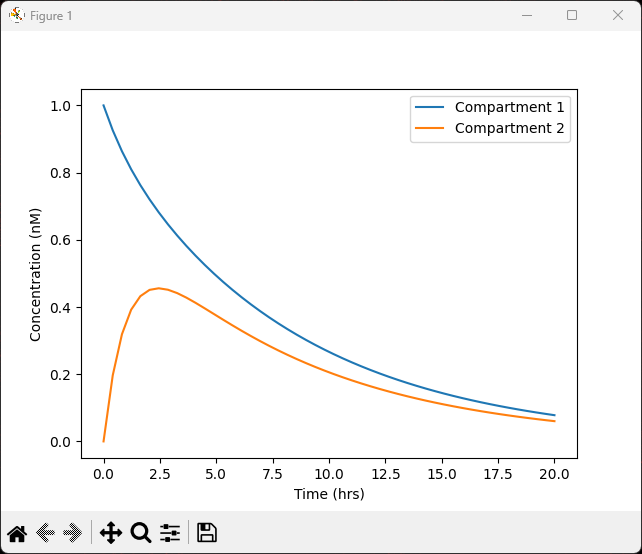
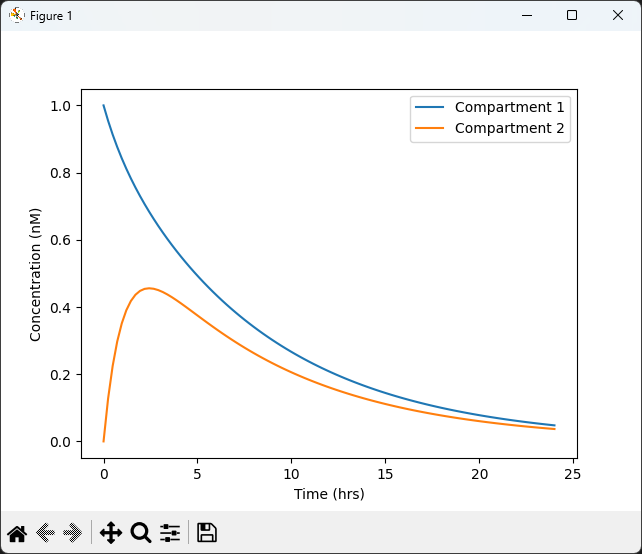
v1.2.0 Update

diff --git a/CompartmentPk.py b/CompartmentPk.py
@@ -1,9 +1,11 @@
 import numpy as np
 from scipy.integrate import odeint
+import sympy as sym
 import matplotlib.pyplot as plt
 import tkinter as tk
 from tkinter import ttk, messagebox
 
+# Compile macOS: pyinstaller --collect-all matplotlib --onefile --windowed CompartmentPk.py
 
 def is_square(mat):
     return mat.shape[0] == mat.shape[1]
@@ -22,7 +24,79 @@ def get_user_input():
     return m, y0
 
 
+def find_eigenvalues_and_eigenvectors(matrix):
+    eigenvalues, eigenvectors = np.linalg.eig(matrix)
+    return eigenvalues, eigenvectors
+
+
+def find_coeff(eigenvectors, initial_values):
+    if len(initial_values) == 2:
+        # Equations below are determined by the compartment placement
+        a1, a2 = sym.symbols("a1, a2")
+        eq1 = sym.Eq(
+            (a1 * eigenvectors[0][1] + a2 * eigenvectors[0][0]), initial_values[0])
+        eq2 = sym.Eq(
+            (a1 * eigenvectors[1][1] + a2 * eigenvectors[1][0]), initial_values[1])
+        result = sym.solve([eq1, eq2], (a1, a2))
+        result = [result[a1], result[a2]]
+    elif len(initial_values) == 3:
+        # Equations below are determined by the compartment placement
+        a1, a2, a3 = sym.symbols("a1, a2, a3")
+        eq1 = sym.Eq((a1 * eigenvectors[0][2] + a2 * eigenvectors[0]
+                     [1] + a3 * eigenvectors[0][0]), initial_values[0])
+        eq2 = sym.Eq((a1 * eigenvectors[1][2] + a2 * eigenvectors[1]
+                     [1] + a3 * eigenvectors[1][0]), initial_values[1])
+        eq3 = sym.Eq((a1 * eigenvectors[2][2] + a2 * eigenvectors[2]
+                     [1] + a3 * eigenvectors[2][0]), initial_values[2])
+        result = sym.solve([eq1, eq2, eq3], (a1, a2, a3))
+        result = [result[a1], result[a2], result[a3]]
+    elif len(initial_values) == 4:
+        # Equations below are determined by the compartment placement
+        a1, a2, a3, a4 = sym.symbols("a1, a2, a3, a4")
+        eq1 = sym.Eq((a1 * eigenvectors[0][3] + a2 * eigenvectors[0][2] + a3 *
+                     eigenvectors[0][1] + a4 * eigenvectors[0][0]), initial_values[0])
+        eq2 = sym.Eq((a1 * eigenvectors[1][3] + a2 * eigenvectors[1][2] + a3 *
+                     eigenvectors[1][1] + a4 * eigenvectors[1][0]), initial_values[1])
+        eq3 = sym.Eq((a1 * eigenvectors[2][3] + a2 * eigenvectors[2][2] + a3 *
+                     eigenvectors[2][1] + a4 * eigenvectors[2][0]), initial_values[2])
+        eq4 = sym.Eq((a1 * eigenvectors[3][3] + a2 * eigenvectors[3][2] + a3 *
+                     eigenvectors[3][1] + a4 * eigenvectors[3][0]), initial_values[3])
+        result = sym.solve([eq1, eq2, eq3, eq4], (a1, a2, a3, a4))
+        result = [result[a1], result[a2], result[a3], result[a4]]
+    return result
+
+
+def const_eigen_window():
+    m, y0 = get_user_input()
+    eigvalues, eigvectors = find_eigenvalues_and_eigenvectors(m)
+    a_coeff = find_coeff(eigvectors, y0)
+    prefix = "a{}: "
+
+    window2 = tk.Toplevel()
+    window2.title('Extra Data')
+    window2.geometry('+700+75')
+    
+
+    # Creating a frame for each label
+    evecf = ttk.LabelFrame(window2, padding="10", text="Eigenvector")
+    evalf = ttk.LabelFrame(window2, padding="10", text="Eigenvalue")
+    cvalf = ttk.LabelFrame(window2, padding="10", text="a Coefficents")
+
+    # Gridding the frames
+    evecf.grid(row=0, column=0, padx=5, pady=5)
+    evalf.grid(row=1, column=0, padx=5, pady=5)
+    cvalf.grid(row=2, column=0, padx=5, pady=5)
+
+    # Packing the labels within each frame
+    ttk.Label(evecf, text=eigvectors).pack(padx=5, pady=5)
+    ttk.Label(evalf, text=eigvalues).pack(padx=5, pady=5)
+    for i, coeff in enumerate(a_coeff, start=1):
+        ttk.Label(cvalf, text=prefix.format(
+            i) + str(coeff)).pack(padx=5, pady=5)
+
+
 def run_simulation():
+    const_eigen_window()
     try:
         m, y0 = get_user_input()
         if is_square(m) and is_square(m.T):
@@ -33,34 +107,59 @@ def run_simulation():
             return
 
         def model(y, t):
-            dydt = -np.dot(m, y)  # ODE
+            dydt = -np.dot(m, y)          # ODE
             return dydt
 
-        t = np.linspace(0, 20)
-        y = odeint(model, y0, t)
+        def model_cont(y, t):
+            dydt = -np.dot(m, y) + y0     # ODE
+            return dydt
 
-        for i in range(len(m)):
-            plt.plot(t, y[:, i], label="Compartment " + str(i + 1))
-        print(type(y))
+        t = np.linspace(float(time_0.get()), float(time_f.get()), 100)
+        if cont_value.get() == 0:
+            y = odeint(model, y0, t)
+        else:
+            # for continuous injection
+            yin = np.zeros(len(y0))
+            y = odeint(model_cont, yin, t)
+
+        if time_skip.get() == '':
+            for i in range(len(m)):
+                plt.plot(t, y[:, i], label="Compartment " + str(i + 1))
+        else:
+            y_new = y.copy()
+            tskip = float(time_skip.get())
+            time_index = int(np.where(t >= tskip)[0][0])
+            idx = time_index
+            # for repeated injection
+            while idx < len(t):
+                ypad = np.pad(y, ((int(idx), 0), (0, 0)),
+                              mode='constant', constant_values=0)
+                ypad = ypad[0:len(y), :]
+                y_new = y_new + ypad
+                idx = idx + time_index
+            for i in range(len(m)):
+                plt.plot(t, y_new[:, i], label="Compartment " + str(i + 1))
 
         plt.xlabel("Time (hrs)")
         plt.ylabel("Concentration (nM)")
         plt.legend()
         plt.show()
 
+
     except Exception as e:
         messagebox.showerror("Error", str(e))
 
 
 root = tk.Tk()
-root.title("ODE Solver")
+root.title("Compartment Pk Solver")
 
 frame_main = ttk.Frame(root, padding="10")
 frame_main.grid(row=0, column=0, sticky=(tk.W, tk.E, tk.N, tk.S))
 
 frame_compartments = ttk.LabelFrame(
     frame_main, padding="10", text="Compartments")
-frame_compartments.grid(row=0, column=0, sticky=(tk.W, tk.E, tk.N, tk.S))
+frame_compartments.grid(row=0, column=0, columnspan=2,
+                        sticky=(tk.W, tk.E, tk.N, tk.S))
 
 input_compartments = ttk.Entry(frame_compartments, width=10)
 input_compartments.grid(row=0, column=0, padx=5, pady=5, sticky=tk.W)
@@ -69,7 +168,8 @@ ttk.Label(frame_compartments, text="Enter the number of compartments: ").grid(
 )
 
 frame_m_matrix = ttk.LabelFrame(frame_main, padding="10", text="m Matrix")
-frame_m_matrix.grid(row=1, column=0, sticky=(tk.W, tk.E, tk.N, tk.S))
+frame_m_matrix.grid(row=1, column=0, columnspan=2,
+                    sticky=(tk.W, tk.E, tk.N, tk.S))
 
 input_m_matrix = []
 for i in range(4):
@@ -90,8 +190,29 @@ for i in range(4):
     entry.grid(row=i, column=0, padx=5, pady=5, sticky=tk.W)
     input_y0_vector.append(entry)
 
+frame_t_values = ttk.LabelFrame(frame_main, padding="10", text="Time Values")
+frame_t_values.grid(row=2, column=1, sticky=(tk.W, tk.E, tk.N, tk.S))
+
+ttk.Label(frame_t_values, text='Initial: ').grid(
+    row=0, column=0, padx=5, pady=5)
+ttk.Label(frame_t_values, text='Final: ').grid(row=1, column=0, padx=5, pady=5)
+ttk.Label(frame_t_values, text='Skip: ').grid(row=2, column=0, padx=5, pady=5)
+
+time_0 = ttk.Entry(frame_t_values, width=10)
+time_0.grid(row=0, column=1, padx=5, pady=5, sticky=tk.W)
+time_f = ttk.Entry(frame_t_values, width=10)
+time_f.grid(row=1, column=1, padx=5, pady=5, sticky=tk.W)
+time_skip = ttk.Entry(frame_t_values, width=10)
+time_skip.grid(row=2, column=1, padx=5, pady=5, sticky=tk.W)
+
 ttk.Button(frame_main, text="Run Simulation", command=run_simulation).grid(
-    row=3, column=0, columnspan=4, padx=5, pady=5
+    row=3, column=0, padx=5, pady=5
 )
+
+cont_value = tk.IntVar(value=0)
+continuous_check = ttk.Checkbutton(frame_main, text="Continuous Input", onvalue=1, offvalue=0, variable=cont_value).grid(
+    row=3, column=1, padx=5, pady=5
+)
+
 
 root.mainloop()

diff --git a/README.md b/README.md
@@ -1,8 +1,8 @@
 # Compartment ODE Solver
 
-Compartment ODE solver is a tool focused in solving molecule transfer between compartments problems that are part of the University of Utah BME 4001 - bioTransport class. In using this tool known data can be entered to create a concentration vs time plot. This program is designed to solve compartment ODE's in the form:
+Compartment ODE solver is a tool focused in solving molecule transfer between compartments problems that are part of the University of Utah BME 4001 - bioTransport class. In using this tool known data can be entered to create a concentration vs time plot and solve for additional data values. This program is designed to solve compartment ODE's in the form:
 
-$$ \frac{d\vec{C}}{dt} + \overline{m}\,\vec{C} = \vec{F} $$
+$$ \frac{d\vec{C}}{dt} + \overline{m}\,\vec{C} = \vec{F} \tag {1}$$
 
 and will output a concentration vs time plot. The m matrix ($\,\overline{m}\,$) is a ratio of the concentration coefficents ($\,k_{ij}\,$) and compartment volumes ($\,V\,$) in the form $n \times n$ matrix in the form:
 
@@ -14,13 +14,19 @@ m_{21} & m_{22} & m_{23} & m_{24}\\
 m_{31} & m_{32} & m_{33} & m_{34}\\
 m_{41} & m_{42} & m_{43} & m_{44}\\
 \end{bmatrix}
+\tag {2}
 $$
+
+The constants $a_n$ and $\alpha_n$ values in the equation:
+$$ C(t) = a_1 e^{-\alpha_1 t} + a_2 e^{-\alpha_2 t} + ... + a_n e^{\alpha_n t} \tag {3}$$
+Eigenvalues and eigenvectors additionally solved and are populated in the extra data window with the $a_n$ and $\alpha_n$ values.
 
 Required Modules:
 <br/>
 
 [![numpy](https://img.shields.io/badge/numpy-1.26.0-blue)](https://numpy.org/)
 [![scipy](https://img.shields.io/badge/scipy-1.11.4-blue)](https://scipy.org/)
+[![sympy](https://img.shields.io/badge/sympy-1.11.1-blue)](https://sympy.org)
 [![matplotlib](https://img.shields.io/badge/matplotlib-3.8-blue)](https://matplotlib.org/)
 [![tkinter](https://img.shields.io/badge/tkinter-3.12.1-blue)](https://docs.python.org/3/library/tkinter.html)
 
@@ -38,11 +44,15 @@ Terminal must be active in the same directory as the python program to launch.
 
 ### Windows
 
-For windows users a compiled app is availible [here](comp_ODE_TK.exe). The program may also be launched using ther terminal command above.
+For windows users a compiled app is availible [here](CompartmentPk.exe). The program may also be launched using ther terminal command above.
 
-### MacOS/Linux
+### Windows
 
-For macOS and linux users a compiled app is not avalible and muse be lunched using there terminal outlined above.
+For macOS users a compiled app is availible [here](CompartmentPk.app). The program may also be launched using ther terminal command above.
+
+### Linux
+
+For linux users a compiled app is not avalible and muse be lunched using there terminal outlined above.
 
 ## Documentation
 
@@ -58,17 +68,22 @@ This section of the program consists of a $4 \times 4$ grid of boxes to enter nu
 
 ### Initial Conditions
 
-This section of the program consists of 4 boxes to enter the values of the known initial conditions of each of the compartments. These values must be numarical and may contain desimal values. The order of the initial condition boxes are with the top being the first compartment and assinding in order as you move down. If the number of compartments is less than 4 you do not need to enter values into the extra boxes.
+This section of the program consists of 4 boxes to enter the values of the known initial conditions of each of the compartments. These values must be numarical and may contain desimal values. The order of the initial condition boxes are with the top being the first compartment and assinding in order as you move down. If the number of compartments is less than 4 you do not need to enter values into the extra boxes. If the continuous input box is checked the initial conditions of each compartment is set to 0 and these inputs will be for the input over time for each compartment.
 
 ### Time Settings
+
 This secion of the program consists of 3 boxes to enter the start time, end time, and time between input (skip) of molecules into compartments. The start time or initial is the time value where the plot time will begin. The end time or final is where the plot time will end. If multiple inputs of molecules is not occuring leave the skip box blank.
+
+### Continuous Input
+
+Next to the run simulation button is a checkbox (default off) for continuous input. When this box is pressed the program will simulate a continuous input over time. This changes the initial conditions section input to be the continuous input over time conditions for each compartment. This causes the initial conditions to be set to 0 for all compartments.
 
 ### Run Simulation
 
-This button is to be pressed after all values in the previous sections are filled out. By pressing this putton the ODE will be solved for time values from 0-20 and a plot will be created in a new window. This plot may then be saved by pressing the save icon in the plot window.
+This button is to be pressed after all values in the previous sections are filled out. By pressing this putton the ODE will be solved for time values set in the time setting section and a plot will be created in a new window. This plot may then be saved by pressing the save icon in the plot window (see plot example below). An additional window will be generated containing the eigenvectors, eigenvalues and a coefficents for equation 2 and 3 as outlined above.
 
 ## Examples
 
-|               <h3>Main Program</h3>                |              <h3>Plot</h3>              |
-| :------------------------------------------------: | :-------------------------------------: |
-| ![Main Program Example Image](program_example.png) | ![Plot Example Image](plot_example.png) |
+|               <h3>Main Program</h3>                |              <h3>Plot</h3>              |        <h3>Eigen & Constants Data</h3>        |
+| :------------------------------------------------: | :-------------------------------------: | :-------------------------------------------: |
+| ![Main Program Example Image](program_example.png) | ![Plot Example Image](plot_example.png) | ![Eigen Constant Data](eig_coeff_example.png) |
